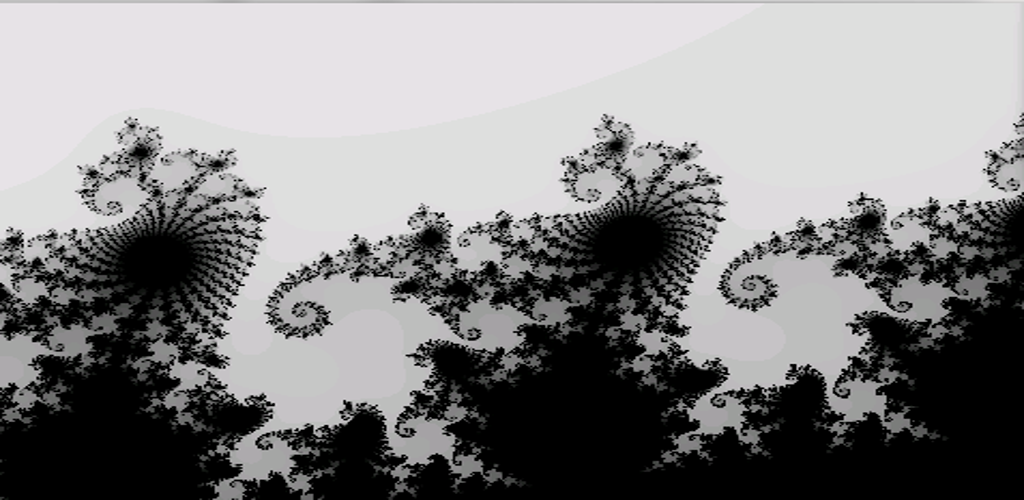
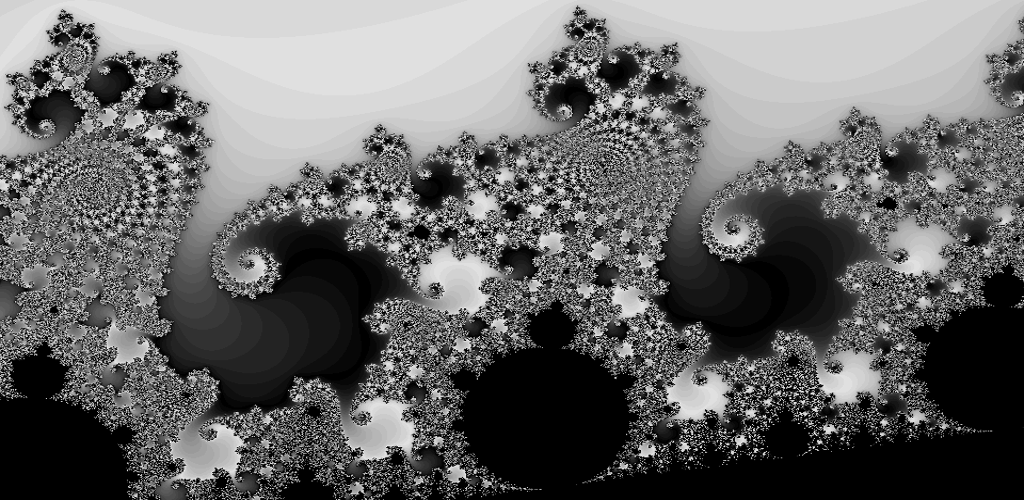
refactor, add Cyclic colors

diff --git a/src/nu/nmmm/android/mandeldroid/MyMenuActions.java b/src/nu/nmmm/android/mandeldroid/MyMenuActions.java
@@ -143,21 +143,27 @@ class MyMenuActions {
 		_setIterations(maxIterations);
 		
 		switch(fractalType){
+		case 0:		_setFractalType(FractalCalculatorMandelbrot.TYPE_CLASSIC);			break;
 		case 1:		_setFractalType(FractalCalculatorMandelbrot.TYPE_BURNINGSHIP);		break;
 		case 2:		_setFractalType(FractalCalculatorMandelbrot.TYPE_PERPENDICULAR);	break;
-		case 0:
+		
 		default:	_setFractalType(FractalCalculatorMandelbrot.TYPE_CLASSIC);
 		}
 		
 		switch(fractalColor){		
-		case 1:		_setFColor(FColorFactory.COLOR_COSMOS);		break;
-		case 2:		_setFColor(FColorFactory.COLOR_RETRO);		break;
-		case 3:		_setFColor(FColorFactory.COLOR_REVERSE);	break;
-		case 4:		_setFColor(FColorFactory.COLOR_FIRE);		break;
-		case 5:		_setFColor(FColorFactory.COLOR_ICE);		break;
-		case 100:	_setFColor(FColorFactory.COLOR_NONE);		break;
-		case 0:
-		default:	_setFColor(FColorFactory.COLOR_STANDARD);
+		case FColorFactory.COLOR_STANDARD:		_setFColor(FColorFactory.COLOR_STANDARD);	break;
+		case FColorFactory.COLOR_COSMOS:		_setFColor(FColorFactory.COLOR_COSMOS);		break;
+		case FColorFactory.COLOR_REVERSE:		_setFColor(FColorFactory.COLOR_REVERSE);	break;
+		case FColorFactory.COLOR_CYCLIC:		_setFColor(FColorFactory.COLOR_CYCLIC);		break;
+		case FColorFactory.COLOR_RETRO:			_setFColor(FColorFactory.COLOR_RETRO);		break;
+		
+		case FColorFactory.COLOR_FIRE:			_setFColor(FColorFactory.COLOR_FIRE);		break;
+		case FColorFactory.COLOR_ICE:			_setFColor(FColorFactory.COLOR_ICE);		break;
+		case FColorFactory.COLOR_TOURQUOISE:	_setFColor(FColorFactory.COLOR_TOURQUOISE);	break;
+		
+		case FColorFactory.COLOR_NONE:			_setFColor(FColorFactory.COLOR_NONE);		break;
+		
+		default:								_setFColor(FColorFactory.COLOR_STANDARD);
 		}
 
 		_setPixelDebugPreview(pixelPreview);
@@ -194,12 +200,16 @@ class MyMenuActions {
 			_setFColor( FColorFactory.COLOR_COSMOS );
 			return true;
 
-		case R.id.m_fractal_colors_retro:
-			_setFColor( FColorFactory.COLOR_RETRO );
-			return true;
-
 		case R.id.m_fractal_colors_reverse:
 			_setFColor( FColorFactory.COLOR_REVERSE );
+			return true;
+
+		case R.id.m_fractal_colors_cyclic:
+			_setFColor( FColorFactory.COLOR_CYCLIC );
+			return true;
+
+		case R.id.m_fractal_colors_retro:
+			_setFColor( FColorFactory.COLOR_RETRO );
 			return true;
 
 		case R.id.m_fractal_colors_fire:
@@ -208,6 +218,10 @@ class MyMenuActions {
 
 		case R.id.m_fractal_colors_ice:
 			_setFColor( FColorFactory.COLOR_ICE );
+			return true;
+
+		case R.id.m_fractal_colors_turquoise:
+			_setFColor( FColorFactory.COLOR_TOURQUOISE );
 			return true;
 
 		case R.id.m_fractal_colors_none:

diff --git a/src/nu/nmmm/android/mandelbrot/color/FColorFactory.java b/src/nu/nmmm/android/mandelbrot/color/FColorFactory.java
@@ -2,25 +2,32 @@ package nu.nmmm.android.mandelbrot.color;
 
 
 public class FColorFactory {
-	public final static int COLOR_STANDARD	= 0;
-	public final static int COLOR_COSMOS	= 1;
-	public final static int COLOR_COSMOS_O	= 1001;
-	public final static int COLOR_RETRO		= 2;
-	public final static int COLOR_REVERSE	= 3;
-	public final static int COLOR_FIRE		= 4;
-	public final static int COLOR_ICE		= 5;
-	public final static int COLOR_NONE		= 100;
+	public final static int COLOR_STANDARD		= 0;
+	public final static int COLOR_COSMOS		= 1;
+	public final static int COLOR_COSMOS_OLD	= 1001;
+	public final static int COLOR_REVERSE		= 2;
+	public final static int COLOR_CYCLIC		= 3;
+	public final static int COLOR_RETRO			= 4;
+	public final static int COLOR_FIRE			= 101;
+	public final static int COLOR_ICE			= 102;
+	public final static int COLOR_TOURQUOISE	= 103;
+	public final static int COLOR_NONE			= 500;
 	
 	public static FColor getInstance(int type){
 		switch(type){
+		case COLOR_STANDARD:	return new FColorStandard();
+		case COLOR_COSMOS:		return new FColorCosmosNew();
+		case COLOR_COSMOS_OLD:	return new FColorCosmos();
+		case COLOR_REVERSE:		return new FColorReverse();
+		case COLOR_CYCLIC:		return new FColorCyclic();
+		case COLOR_RETRO:		return new FColorRetro();
+		
 		case COLOR_FIRE:		return new FColorPaletteCyclic(FColorPaletteCyclic.COLOR_FIRE);
 		case COLOR_ICE:			return new FColorPaletteCyclic(FColorPaletteCyclic.COLOR_ICE);
-		case COLOR_REVERSE:		return new FColorReverse();
-		case COLOR_COSMOS:		return new FColorCosmosNew();
-		case COLOR_RETRO:		return new FColorRetro();
-		case COLOR_COSMOS_O:	return new FColorCosmos();
+		case COLOR_TOURQUOISE:	return new FColorPaletteCyclic(FColorPaletteCyclic.COLOR_TURQUOISE);
+
 		case COLOR_NONE:		return new FColorNone();
-		case COLOR_STANDARD:
+		
 		default:				return new FColorStandard();
 		}
 	}

diff --git a/src/nu/nmmm/android/mandelbrot/color/FColorPaletteCyclic.java b/src/nu/nmmm/android/mandelbrot/color/FColorPaletteCyclic.java
@@ -6,10 +6,12 @@ import java.util.List;
 public class FColorPaletteCyclic implements FColor{
 	final public static int COLOR_FIRE = 0;
 	final public static int COLOR_ICE = 1;
+	final public static int COLOR_TURQUOISE = 2;
 	
 	final private static int PALETTE_COUNT = 64;
 	
 	private List <RGB>_list = new ArrayList<RGB>();
+	private int _paletteCount;
 	
 	public FColorPaletteCyclic(int type){
 		_setPalette(type);
@@ -20,13 +22,16 @@ public class FColorPaletteCyclic implements FColor{
 		
 		FPalette pal = new FPalette(colors, PALETTE_COUNT);
 		pal.calc(this._list);
+		
+		_paletteCount = _list.size();
 	}
 	
 	private  RGB[] _getPalette(int type){
 		switch(type){
-		case COLOR_ICE:		return _getPaletteIce();
+		case COLOR_ICE:			return _getPaletteIce();
+		case COLOR_TURQUOISE:	return _getPaletteTurqise();
 		case COLOR_FIRE:
-		default:			return _getPaletteFire();
+		default:				return _getPaletteFire();
 		}
 	}
 	
@@ -50,6 +55,16 @@ public class FColorPaletteCyclic implements FColor{
 		return colors;
 	}
 
+	private RGB[] _getPaletteTurqise(){
+		RGB[] colors = {
+				new RGB(0x77, 0xff, 0x77),		// greenish
+				new RGB(0x00, 0x00, 0xff),		// cyan
+				new RGB(0x77, 0xff, 0x77)		// greenish
+		};
+
+		return colors;
+	}
+
 	@Override
 	public RGB convertColor(int color, int maxcolor, RGB rgb) {
 		if (color == maxcolor){
@@ -58,7 +73,7 @@ public class FColorPaletteCyclic implements FColor{
 			return rgb;
 		}
 
-		int location = color % PALETTE_COUNT;
+		int location = color % _paletteCount;
 		RGB a = _list.get(location);
 		rgb.setColor(a);
 

diff --git a/src/nu/nmmm/android/mandelbrot/color/FColorCyclic.java b/src/nu/nmmm/android/mandelbrot/color/FColorCyclic.java
@@ -1,0 +1,19 @@
+package nu.nmmm.android.mandelbrot.color;
+
+public class FColorCyclic  implements FColor{
+	final private static int SIZE2 = 64;
+	final private static int SIZE = SIZE2 >> 1;
+	final private static int STEP = RGB.MAX_COLOR / SIZE;
+	
+	@Override
+	public RGB convertColor(int color, int maxcolor, RGB rgb) {
+		int a = color == maxcolor ? 0 : color % SIZE2;
+		
+		if (a > SIZE)
+			a = SIZE2 - a;
+				
+		rgb.setColor(a * STEP);
+		
+		return rgb;
+	}
+}

diff --git a/src/nu/nmmm/android/mandelbrot/color/FColorCosmos.java b/src/nu/nmmm/android/mandelbrot/color/FColorCosmos.java
@@ -1,7 +1,5 @@
 package nu.nmmm.android.mandelbrot.color;
 
-
-
 class FColorCosmos implements FColor{
 	protected int _transIt(int color, int maxcolor){
 		return RGB.MAX_COLOR;
